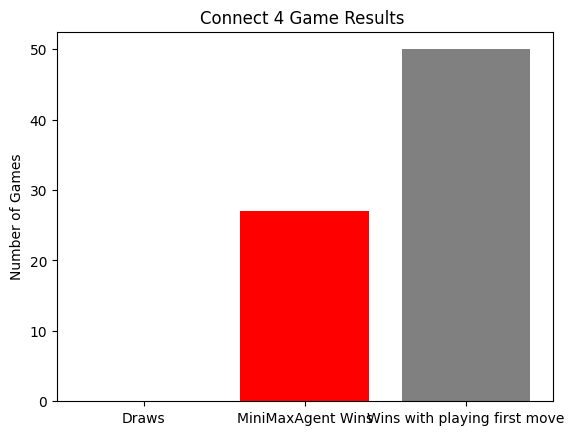
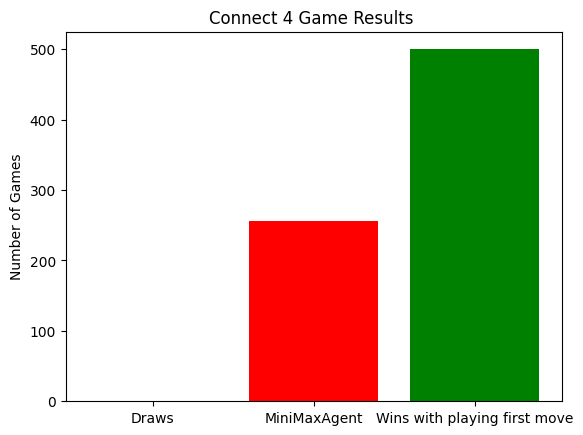
enhanced game logic, input vals for human player still to fix

diff --git a/Code/game_logic/game.py b/Code/game_logic/game.py
@@ -1,0 +1,123 @@
+import numpy as np
+
+from Code.data.connect4_fnn.connect4fnn import flatten_board
+from Code.game_logic.game_board import GameBoard
+from Code.data.bcolors import  Bcolors
+import random
+from Code.game_logic.constants import AMOUNT_ROWS,AMOUNT_COLUMNS
+
+
+def initialize_game():
+    """
+    Creates an empty game board and randomizes which player makes the first move
+    :return turn: can either be zero or one and determines which player makes the first move
+            game_over: False to indicate that the game is not over
+            board: Empty game board
+
+    """
+    turn = random.randint(0, 1)
+    game_over = False
+    board = GameBoard(AMOUNT_COLUMNS, AMOUNT_ROWS)
+
+    return turn, game_over, board
+
+
+def turn_based_move (player1, player2, board, turn):
+    """
+    Places the symbol of the player whos current turn it is on the board
+    :param player1: An instance of Player class
+    :param player2: An instance of Player class
+    :param board: Current board state
+    :param turn: Indicates which player has to make a move
+    :return: symbol of the current player and the move he made
+    """
+    turn = turn + 1
+    turn = turn % 2
+
+    if turn == 1:
+        symbol = player1.symbol
+        chosen_move = player1.choose_move(board)
+    else:
+        symbol = player2.symbol
+        chosen_move = player2.choose_move(board)
+
+    board.play_move(chosen_move, symbol)
+    return chosen_move, symbol
+
+
+def play_game(player1, player2):
+    turn, game_over, board = initialize_game()
+
+    # Saving the player who made the first move in a variable for evaluation
+    player_making_first_move = turn
+
+    # Game continues while the board is not full and there is no winner
+    while not game_over:
+        chosen_move, symbol = turn_based_move(player1, player2, board, turn)
+
+        #If the game is won by somebody, return the number of whoever made the winning move
+        if board.check_winner(symbol):
+            if turn==1:
+                return 0, player_making_first_move
+            else:
+                return 1, player_making_first_move
+
+        #If it's a draw return a 0
+        elif board.is_full():
+            return -1, player_making_first_move
+
+
+
+def play_console_game(player1, player2):
+    """
+    Enables playing a game and printing the current board state after each move.
+    :param player1: An instance of Player class
+    :param player2: An instance of Player class
+    :return:
+    """
+    turn, game_over, board = initialize_game()
+
+    print(f"{Bcolors.BOLD} Welcome to Connect 4")
+    print("")
+    board.print_board()
+
+    # Game continues while the board is not full and there is no winner
+    while not game_over:
+
+        chosen_move, symbol = turn_based_move(player1, player2, board, turn)
+
+        if board.is_full():
+            print(f"{Bcolors.YELLOW}It's a tie!")
+            game_over = True
+        elif board.check_winner(symbol):
+            print(f"{Bcolors.GREEN}Player {symbol} wins!")
+            game_over = True
+
+        board.print_board()
+
+
+def record_games(num_games,player1, player2):
+    """
+    Records a number of games between two players and collects it inside an array
+    :param num_games: number of games to record
+    :param player1: An instance of Player class
+    :param player2: An instance of Player class
+    :return: the collected data
+    """
+    data = []
+
+    for x in range(num_games):
+        turn, game_over, board = initialize_game()
+        while not game_over:
+            chosen_move, symbol = turn_based_move(player1, player2, board, turn)
+            data.append((flatten_board(board), chosen_move))
+
+            if board.is_full() or board.check_winner(symbol):
+                game_over = True
+
+
+    # Prepare data for training
+    X = np.array([item[0] for item in data])  # Input features (flattened board states)
+    y = np.array([item[1] for item in data])  # Labels (moves)
+
+    return X, y

diff --git a/Code/main.py b/Code/main.py
@@ -1,20 +1,23 @@
 from Code.agents.human_player import HumanPlayer
 from Code.agents.minimax_agent import MiniMaxAgent
-from Code.agents.mcts_agent import MCTSAgent
-from Code.agents.random_agent import RandomAgent
-from Code.agents.smart_agent import SmartAgent
+
 from Code.evaluation.evaluation import run_evaluation
-from Code.constants import SYMBOL_PLAYER_ONE,SYMBOL_PLAYER_TWO
-from Code.game import play_console_game
-from Code.game_board import GameBoard
+from Code.game_logic.constants import SYMBOL_PLAYER_ONE, SYMBOL_PLAYER_TWO
+from Code.game_logic.game import play_console_game
+from Code.game_logic.game_board import GameBoard
 
 player1 = MiniMaxAgent(SYMBOL_PLAYER_ONE , SYMBOL_PLAYER_TWO)
-player2 = SmartAgent(SYMBOL_PLAYER_TWO , SYMBOL_PLAYER_ONE)
+player2 = HumanPlayer(SYMBOL_PLAYER_TWO , SYMBOL_PLAYER_ONE)
 
 
-#play_console_game(player1, player2)
+play_console_game(player1, player2)
 
-run_evaluation(player1, player2, 50)
+#run_evaluation(player1, player2, 500)
 
 
+#board = GameBoard(6,7)
+#board.play_move(2, SYMBOL_PLAYER_ONE)
+#board.print_board()
 
+#v = flatten_board(board)
+#print(v)

diff --git a/Code/data/connect4_fnn/connect4fnn.py b/Code/data/connect4_fnn/connect4fnn.py
@@ -1,0 +1,27 @@
+import numpy as np
+
+from Code.game_logic.constants import SYMBOL_PLAYER_TWO, SYMBOL_PLAYER_ONE, EMPTY
+
+
+def flatten_board(gameboard):
+    """
+    Converts the string-based board into a numerical representation to collect training data.
+    """
+    board = gameboard.board
+    numerical_board = []
+    for row in board:
+        numerical_row = []
+        for cell in row:
+            if cell == EMPTY:
+                numerical_row.append(0)
+            elif cell == SYMBOL_PLAYER_ONE:
+                numerical_row.append(1)
+            elif cell == SYMBOL_PLAYER_TWO:
+                numerical_row.append(-1)
+        numerical_board.append(numerical_row)
+    #Convert the board to a numpy array and flatten it to a 1D Vector
+    return np.array(numerical_board, dtype=np.float32).flatten()
+
+def collect_game_data():
+    pass
+

diff --git a/Code/evaluation/evaluation.py b/Code/evaluation/evaluation.py
@@ -1,7 +1,7 @@
 import os
 import matplotlib.pyplot as plt
-from Code.constants import SECTION_LENGTH
-from Code.game import play_game
+from Code.game_logic.constants import SECTION_LENGTH
+from Code.game_logic.game import play_game
 from tqdm import tqdm
 
 def run_evaluation(player1, player2, num_games):
@@ -28,7 +28,7 @@ def run_evaluation(player1, player2, num_games):
         elif result == 1:
             player2_wins += 1
             
-        
+        #If the player who made the first move wins, the counter increments
         if player_making_first_move == result:
             win_by_making_first_move += 1
             

diff --git a/Code/agents/minimax_agent.py b/Code/agents/minimax_agent.py
@@ -1,8 +1,7 @@
 from Code.agents.player import Player
-from Code.game_board import GameBoard
-from Code.constants import DISTANCE_TO_BORDER, SCORE_TWO, SCORE_THREE, SCORE_WIN, \
+from Code.game_logic.constants import DISTANCE_TO_BORDER, SCORE_TWO, SCORE_THREE, SCORE_WIN, \
     SCORE_CENTRAL, SECTION_LENGTH, SCORE_BLOCK_OPPONENT_WIN, CENTRAL_COLS, \
-    EMPTY, SCORE_BLOCK_OPPONENT_THREE, SEARCH_DEPTH, SCORE_FORK
+    EMPTY, SCORE_BLOCK_OPPONENT_THREE, SEARCH_DEPTH
 
 
 class MiniMaxAgent(Player):

diff --git a/Code/agents/human_player.py b/Code/agents/human_player.py
@@ -2,7 +2,13 @@ from Code.agents.player import Player
 
 
 class HumanPlayer(Player):
+    """
+    The HumanPlayer class represents a human player.
+    It inherits from the Player class.
+    It enables playing against an agent or another human player, choosing the moves by entering them into the terminal.
 
+
+    """
     def choose_move(self, board):
         """
         Lets the player choose a column and loops the input until a valid move is chosen.

diff --git a/Code/agents/mcts_agent.py b/Code/agents/mcts_agent.py
@@ -1,12 +1,7 @@
+from Code.agents.player import Player
 import random
 import math
 
-from Code.agents.player import Player
-from Code.constants import EMPTY
-from Code.game_board import GameBoard
-import random
-import math
-from Code.constants import EMPTY
 
 class MCTSAgent(Player):
     def __init__(self, symbol, opponent_symbol, iterations=5000, exploration_constant=1.4):

diff --git a/Code/game_logic/game_board.py b/Code/game_logic/game_board.py
@@ -1,4 +1,4 @@
-from Code.constants import DISTANCE_TO_BORDER, EMPTY, SECTION_LENGTH, AMOUNT_ROWS
+from Code.game_logic.constants import DISTANCE_TO_BORDER, EMPTY, SECTION_LENGTH, AMOUNT_ROWS
 
 
 class GameBoard:

diff --git a/tests/test_game_board.py b/tests/test_game_board.py
@@ -1,5 +1,5 @@
 import pytest
-from Code.game_board import GameBoard
+from Code.game_logic.game_board import GameBoard
 
 @pytest.fixture
 def game_board():
